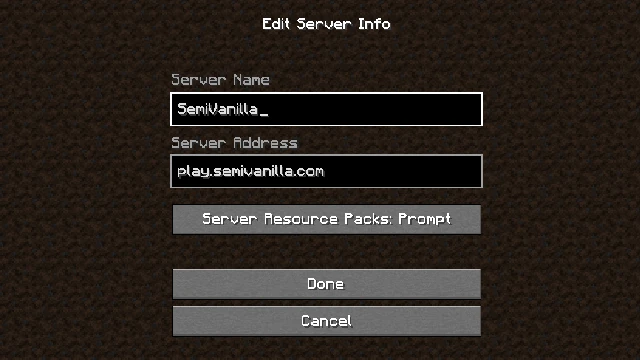
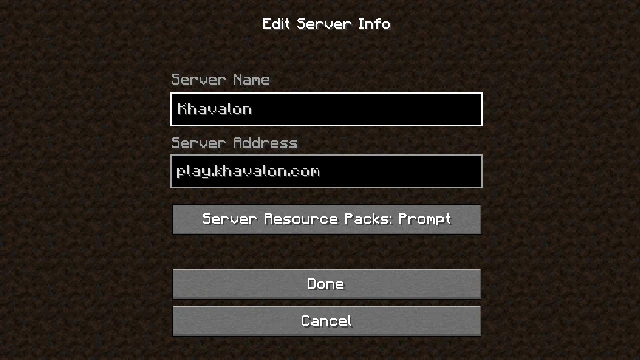
Sync remote

Changed region(s): [[0.2812, 0.275, 0.4375, 0.3361], [0.2812, 0.4583, 0.5312, 0.4889]]

diff --git a/content/enchants/index.php b/content/enchants/index.php
@@ -20,7 +20,7 @@
         <div>
           <section>
             <h3>Custom Enchants</h3>
-            <p>There are <strong>123</strong> custom enchants available on SemiVanilla. They are available for all types of weapons, armor, and tools.</p>
+            <p>There are <strong>115</strong> custom enchants available on SemiVanilla. They are available for all types of weapons, armor, and tools.</p>
             <p>To see a list of all available enchants, <a href="all/">click here</a>.</p>
             <p>Custom enchants are broken up into 6 different rarity categories. The higher the rarity, the less likely you are to find that enchant.</p>
             <ul>
@@ -46,6 +46,7 @@
               <li>Strike and Area Strike are exclusive.</li>
               <li>Hasten, Haste, Trench, and Vein Miner are exclusive.</li>
               <li>Heavy, Tank, and Valor are exclusive.</li>
+              <li>Bowmaster and Longbow are exclusive.</li>
             </ul>
           </section>
         </div>

diff --git a/content/join/index.php b/content/join/index.php
@@ -6,7 +6,7 @@
     <script async defer>
       function copyToClipboard(id) {
         var aux = document.createElement("input");
-        aux.setAttribute("value", "play.semivanilla.com");
+        aux.setAttribute("value", "play.khavalon.com");
         document.body.appendChild(aux);
         aux.select();
         document.execCommand("copy");
@@ -80,7 +80,7 @@
               <li>In Minecraft, go to <strong>Play</strong> and then <strong>Servers</strong>.</li>
               <li>Scroll to the bottom and tap on <strong>Add Server</strong>.
               <li>Enter a name, this can be anything you want!</li>
-              <li>Enter "play.semivanilla.com" for the <strong>Server Address</strong>. Leave the default port (19132).</li>
+              <li>Enter "play.khavalon.com" for the <strong>Server Address</strong>. Leave the default port (19132).</li>
               <li>Tap <strong>Play</strong>!</li>
             </ol>
           </div>

diff --git a/content/vote/index.php b/content/vote/index.php
@@ -47,8 +47,8 @@
             <a href="https://www.planetminecraft.com/server/semivanilla-mc/vote/" target="_blank"><button type="button" id="vote4" onclick="buttonClicked('vote4')">Vote</button></a>
           </div>
           <div>
-            <h3>best-minecraft-servers.co</h3>
-            <a href="https://best-minecraft-servers.co/server-khavalon.3773/vote" target="_blank"><button type="button" id="vote5" onclick="buttonClicked('vote5')">Vote</button></a>
+            <h3>servers-minecraft.net</h3>
+            <a href="https://servers-minecraft.net/server-khavalon-1-18-2.1274/vote" target="_blank"><button type="button" id="vote5" onclick="buttonClicked('vote5')">Vote</button></a>
           </div>
           <div>
             <h3>minecraft.buzz</h3>

diff --git a/content/rules/index.php b/content/rules/index.php
@@ -66,6 +66,7 @@
             <li class="rules">Do not discuss or appeal bans/mutes/etc in public channels. (An appeal email is provided in every punishment message, or on the Discord <strong>#faq</strong> page.)</li>
             <li class="rules">Do not intentionally disparage, tarnish, or otherwise harm the server.</li>
             <li class="rules">Do not advertise other Minecraft servers or Discords.</li>
+            <li class="rules">Please only use English in public channels as we are generally unable to moderate other languages.</li>
           </ul>
         </section>
       </div>

diff --git a/content/index.php b/content/index.php
@@ -63,7 +63,7 @@
       <div class="content" id="landing">
         <div class="shadow"></div>
         <section class="center" style="flex-direction: column; max-width: 600px; border-radius: 50px; border: #23d37b dotted 3px; margin: 50px;">
-          <h3>Welcome to SemiVanilla</h3>
+          <h3>Welcome to Khavalon</h3>
           <p>Not your average SMP. Khavalon is a hard difficulty, pvp-enabled, survival RPG server. Danger lurks around every corner. Will you survive?</p>
         </section>
         <section class="center">
